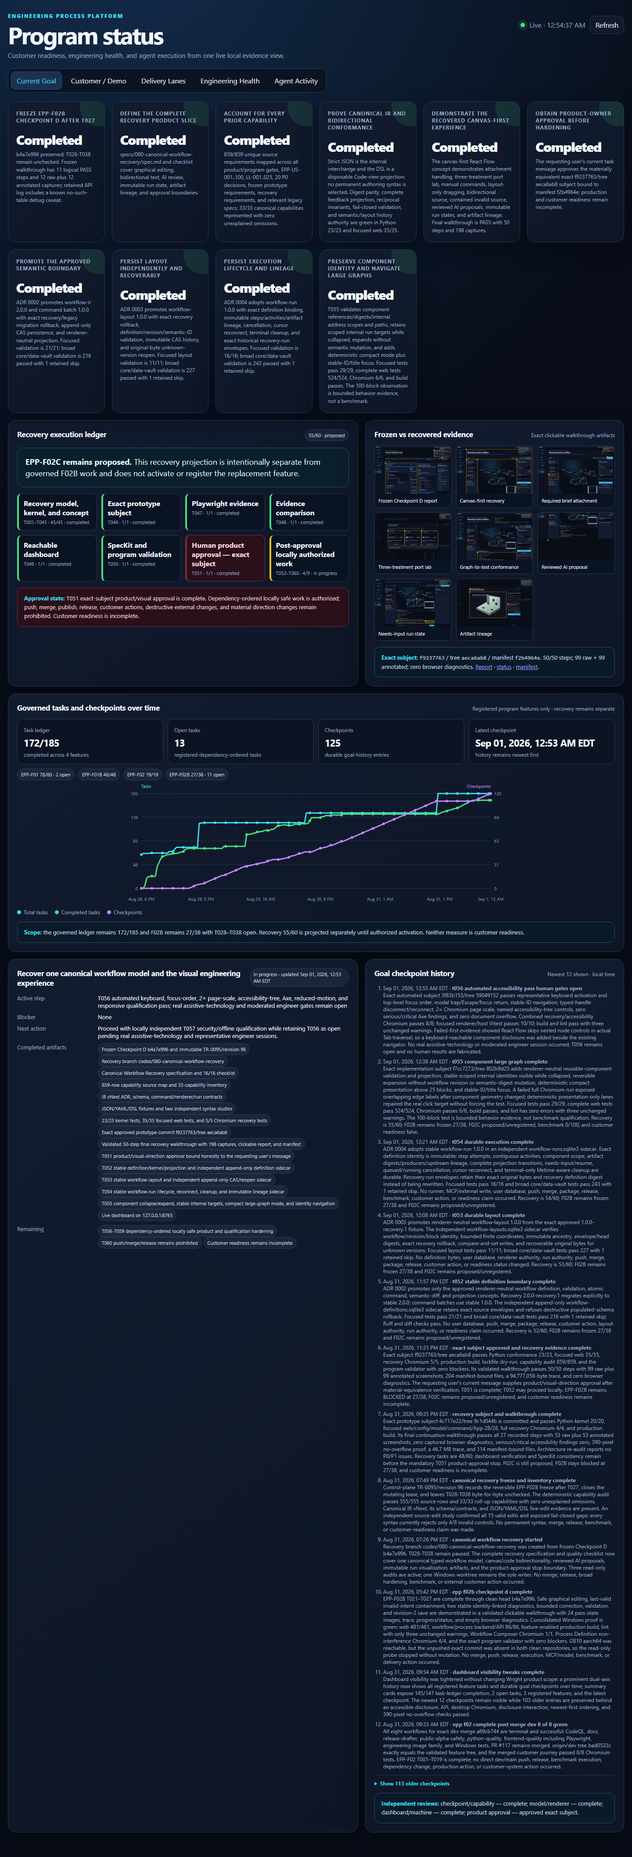
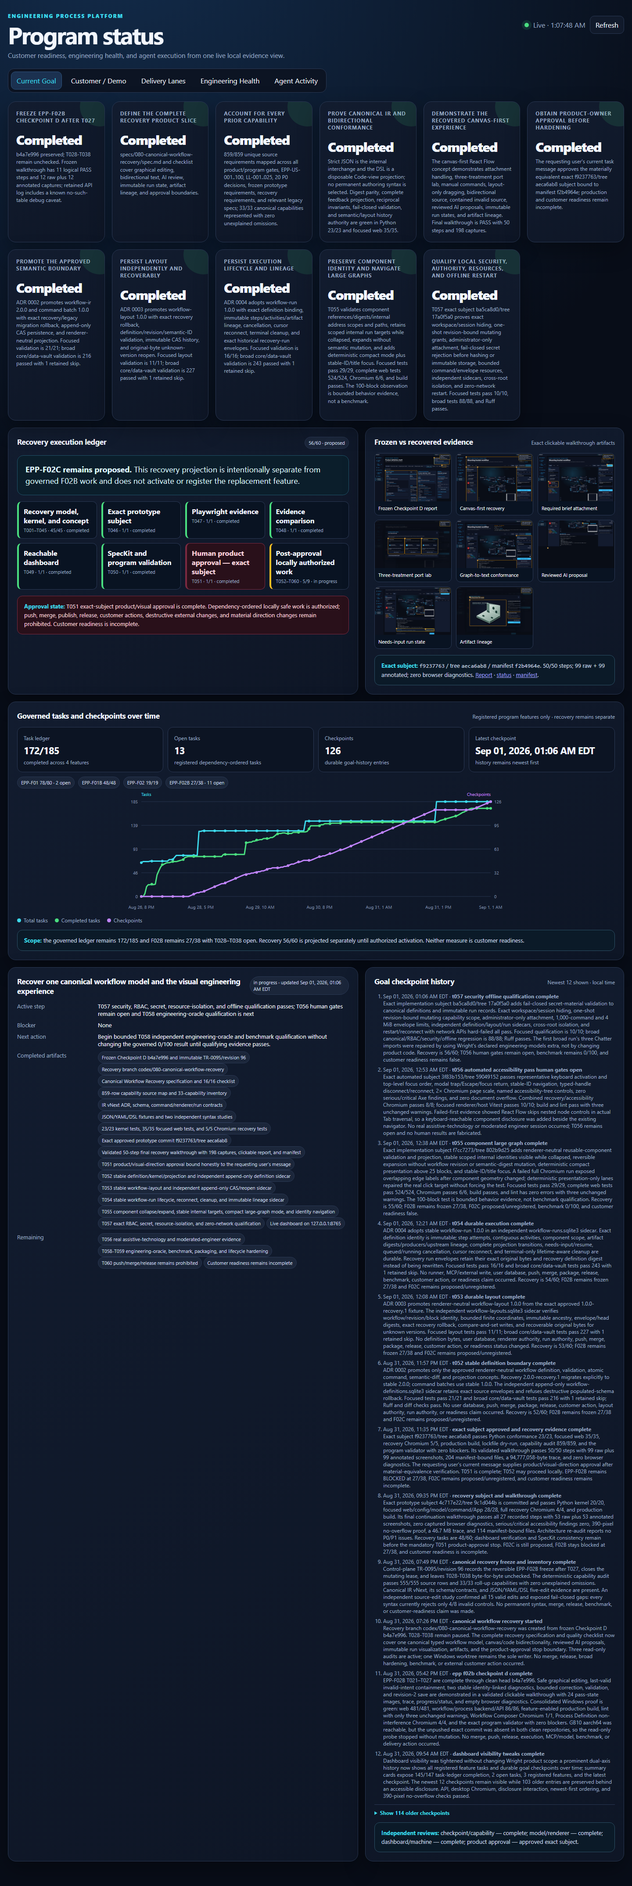
docs(workflows): record T057 qualification evidence

diff --git a/specs/080-canonical-workflow-recovery/plan.md b/specs/080-canonical-workflow-recovery/plan.md
@@ -6,7 +6,7 @@
 
 ## Summary
 
-Recover Wright around one versioned canonical workflow IR that is authoritative for diagram, text, forms, and reviewed AI proposals while keeping layout and immutable run records separate. Preserve the model/validation/revision/CAS/API/browser/renderer seams completed at Checkpoint D, freeze its current custom shell as technical evidence, and build a disposable but high-fidelity React Flow recovery concept over the existing renderer adapter. The slice includes measured JSON/YAML/DSL evidence, a tested parse/format/validate/apply/diff/project conformance kernel, a three-treatment block/port laboratory, a complete mechanical-engineering walkthrough, and revised dependency-ordered program artifacts. T051 is approved for exact subject `f9237763`; T052–T055 now promote stable definition, layout, execution, reusable-component identity, collapsed-graph interaction, and bounded large-graph navigation while preserving renderer-neutral authority. Dependency-ordered locally safe implementation may continue, while push, merge, publication, release, customer action, and material product-direction changes remain prohibited.
+Recover Wright around one versioned canonical workflow IR that is authoritative for diagram, text, forms, and reviewed AI proposals while keeping layout and immutable run records separate. Preserve the model/validation/revision/CAS/API/browser/renderer seams completed at Checkpoint D, freeze its current custom shell as technical evidence, and build a disposable but high-fidelity React Flow recovery concept over the existing renderer adapter. The slice includes measured JSON/YAML/DSL evidence, a tested parse/format/validate/apply/diff/project conformance kernel, a three-treatment block/port laboratory, a complete mechanical-engineering walkthrough, and revised dependency-ordered program artifacts. T051 is approved for exact subject `f9237763`; T052–T055 promote stable definition, layout, execution, reusable-component identity, collapsed-graph interaction, and bounded large-graph navigation. T057 now qualifies the canonical boundaries for exact RBAC scope, fail-closed secret handling, resource isolation, and offline restart. T056's real assistive-technology and moderated-engineer gates remain open. Dependency-ordered locally safe implementation may continue, while push, merge, publication, release, customer action, and material product-direction changes remain prohibited.
 
 ## Technical Context
 
@@ -16,7 +16,7 @@ Recover Wright around one versioned canonical workflow IR that is authoritative 
 
 **Storage**: Preserve existing draft and legacy run storage. T052 adds independent stable definition storage, T053 adds independent stable layout storage, and T054 adds an independent normalized execution sidecar for canonical runs, immutable steps/activities/artifact lineage, reconnect, cancellation, cleanup, and exact historical recovery envelopes.
 
-**Testing**: pytest for syntax evidence and retained Python invariants; Vitest for conformance, commands, projection, renderer, and component behavior; Playwright for human-repeatable direct manipulation, text correspondence, AI review, run visualization, screenshots, trace, and diagnostics
+**Testing**: pytest for syntax evidence, retained Python invariants, canonical security/RBAC/resource boundaries, and zero-network restart; Vitest for conformance, commands, projection, renderer, and component behavior; Playwright for human-repeatable direct manipulation, text correspondence, AI review, run visualization, screenshots, trace, diagnostics, and automated accessibility
 
 **Target Platform**: Wright web UI on Windows 11 for authoritative interaction evidence; current supported desktop browsers; optional GB10 Linux/aarch64 for bounded read-only and parallel verification
 
@@ -33,10 +33,10 @@ Recover Wright around one versioned canonical workflow IR that is authoritative 
 *GATE: Passed before research and rechecked after contracts.*
 
 - **Modular monorepo and thin routes — PASS**: no new route business logic is required for the recovery concept; retained API/service boundaries remain unchanged. Any future persistence expansion belongs in core/data-vault/workspace-service before transport.
-- **Offline-first — PASS**: fixtures, parsing, validation, graph editing, proposal review, and simulated run evidence operate locally without cloud or external MCP dependencies.
+- **Offline-first — PASS**: fixtures, parsing, validation, graph editing, proposal review, and simulated run evidence operate locally without cloud or external MCP dependencies. T057 additionally hard-fails network resolution/connection while promoting and reopening stable definition, layout, run, step, activity, and artifact records.
 - **Distribution and rollback — PASS**: no released artifact, installer, or main database version changes. The new definition sidecar is independent, its empty schema rolls back transactionally, populated history refuses destructive rollback, and exact promotion-source envelopes are retained for verified rollback.
 - **Embedded state — PASS**: retained stores remain untouched. Stable definitions, layouts, and canonical execution records now have separate SQLite authorities. The recovery UI's simulated runner remains disposable presentation evidence and gains no external execution authority.
-- **Security, RBAC, and authority — PASS**: no new external write or runtime authority. AI proposals cannot mutate, run, or approve. Artifact actions remain local concept fixtures and are labeled.
+- **Security, RBAC, and authority — PASS**: no new external write or runtime authority. T057 proves exact workspace/session lookup, exact one-shot mutating capability grants, administrator-only attachment authority, fail-closed secret rejection before canonical hashing/immutable persistence, and bounded command/envelope resources. AI proposals cannot mutate, run, or approve. Artifact actions remain local concept fixtures and are labeled.
 - **Engineering tooling protocol — PASS**: exact tool/MCP bindings are modeled and inspectable, but no GUI-only agent execution or tool invocation occurs.
 - **UI atomic design — PASS**: the recovery stylesheet has zero raw color
   literals, 184 references to shared Wright tokens, and no malformed token
@@ -49,8 +49,9 @@ Recover Wright around one versioned canonical workflow IR that is authoritative 
   renderer-component tests cover default interaction, run overlays, and
   unknown-version rejection; the page-level mocked Playwright journey covers
   the complete product path. Retained backend contract tests remain available.
-  Production system E2E is deferred because this slice uses a simulated run and
-  commits no production executor.
+  T057 adds a local system E2E for stable definition/layout/run persistence and
+  restart with network APIs hard-failed. A live production executor remains
+  deferred because this slice commits no external execution authority.
 - **Stable test identities — PASS**: every authored interactive concept control
   and every explicit renderer navigation control has a stable `data-testid`;
   the host-component regression enumerates rendered interactive elements and
@@ -261,6 +262,7 @@ artifacts/ui-walkthrough/workflow-recovery/<timestamp>/
   one-second recovery bound.
 - **Walkthrough**: progress/status/report remain current after every action; raw and annotated images are separate; browser diagnostics are captured; validator has zero missing evidence fields.
 - **Program**: dashboard names the recovery goal as in progress while EPP-F02C remains proposed and unregistered, keeps the governed F02B ledger separate from a recovery task projection, orders checkpoint history newest-first, and leaves customer readiness incomplete.
+- **Security/offline**: exact capability and workspace/session scopes fail closed; secret-shaped keys, bearer/assignment material, and credential-bearing URLs cannot enter canonical or immutable records; oversized batches/envelopes fail before write; definition/layout/run sidecars remain isolated and reopen with zero network calls.
 
 ## Resource Strategy
 

diff --git a/specs/080-canonical-workflow-recovery/capability-inventory.md b/specs/080-canonical-workflow-recovery/capability-inventory.md
@@ -33,11 +33,11 @@ This register distinguishes durable product capabilities from any particular ren
 | CAP-021 | Truthful modes and provenance | Tell fixture demonstration from live engineering work | Mode and evidence provenance on run; never inferred | N/A | Persistent DEMO/SIMULATED label in concept | Mode cannot be toggled after run starts | Source and limitation | Current-run evidence alone drives findings | Cross-input false-result and mode-label tests | Simulation banner visible in every run capture | **Retain** — concept is explicitly simulated. |
 | CAP-022 | Approval and authority boundaries | Approve an exact design or return it for revision | Gate declaration separate from immutable approval record | Gate/decision semantics only | Approval node/branch; no fake approval button in authoring | Explicit exact-subject action outside AI | Actor, revision, allowed next action | Approval state is run/control evidence | Stale-subject, reject/revise, revocation tests | Review block and feedback edge | **Retain** — no execution, publication, or external customer action here. |
 | CAP-023 | UI/headless/CLI/host equivalence | Run the same definition without the canvas | Shared IR, command, validation, and run contracts | Same parse/format service | Canvas is one adapter | Commands are transport-neutral | Same semantic/run IDs | One interpreter produces all states | Declared equivalence and adapter contract tests | Not visually primary | **Defer production proof** — retain contract boundary now. |
-| CAP-024 | Security, privacy, and tool isolation | Review where proprietary bracket data can travel | Policy references and exact identities; no embedded secret | No credential literals | Authority/egress disclosed before run | Unsafe action cannot be inferred from a gesture | Redaction, egress, limits, approval | Typed denial, isolation evidence | Threat, secret, traversal, isolation, resource tests | Binding/authority disclosure | **Retain; defer full qualification**. |
+| CAP-024 | Security, privacy, and tool isolation | Review where proprietary bracket data can travel | Policy references and exact identities; no embedded secret | No credential literals | Authority/egress disclosed before run | Unsafe action cannot be inferred from a gesture | Redaction, egress, limits, approval | Typed denial, isolation evidence | T057 exact RBAC, secret, resource, cross-root, and offline tests | Binding/authority disclosure | **Qualified for the canonical local slice** — exact workspace/session and one-shot grant scope pass; external runtime/release authority remains absent. |
 | CAP-025 | Engineer usability and accessibility | Complete the workflow with keyboard or at 200% zoom | No semantic dependency | Text remains complete fallback | Focus-visible controls, labels, responsive inspector | Keyboard equivalents for gestures and component disclosure | Reachable without horizontal document overflow | Status not color-only; reduced motion | Axe, keyboard, focus-order, 2× scale, narrow, reduced-motion tests; real AT/moderated study open | Automated T056 Chromium evidence | **Automated portion passes; human gate open** — no real screen-reader or moderated participant evidence is inferred. |
 | CAP-026 | Large-graph behavior | Navigate a realistic process without losing context | Stable IDs and projections scale independently | Formatter remains deterministic | Detailed through 25 blocks; deterministic compact mode, fit, minimap, and identity search above 25 | Keyboard/selection remain bounded | Search/select by stable identity or title | Overlay does not re-layout graph | 25/100 renderer stress plus later representative performance qualification | T055 automated 100-block renderer evidence | **Revise, bounded proof only** — navigation behavior is implemented; production performance and representative scale claims remain deferred. |
 | CAP-027 | Generic architecture | Apply the same workflow system to other engineering domains | No domain/vendor/case dispatch in kernel | Grammar contains generic types/IDs | Renderer is type-driven | Commands are semantic, not case-named | Binding is metadata | Runtime adapters are replaceable | Static/dependency and perturbation review | Bracket is example, not dispatch | **Retain** — the 100 stories map through generic constructs. |
-| CAP-028 | Persistence, migration, offline, rollback | Reopen an exact draft after restart or update | Version/migration rules; CAS immutable revisions | Unknown versions fail safely | Honest unavailable/recovery state | Save uses compare-and-swap | Migration/recovery detail | Runs keep exact historical subject | Restart/offline/update/rollback/uninstall tests | Not in recovery concept | **Defer hardening** — sound CAS foundation retained. |
+| CAP-028 | Persistence, migration, offline, rollback | Reopen an exact draft after restart or update | Version/migration rules; CAS immutable revisions | Unknown versions fail safely | Honest unavailable/recovery state | Save uses compare-and-swap | Migration/recovery detail | Runs keep exact historical subject | T052–T054 migration/rollback plus T057 zero-network restart and sidecar isolation | Not in recovery concept | **Local canonical persistence qualified** — packaging/native/update/uninstall hardening remains T059. |
 | CAP-029 | Customer outcome catalog | Model any of the 100 engineering processes without special code | Generic block/port/artifact/relationship composition | Same language constructs | Friendly domain labels over same primitives | Compose from capabilities | Domain facts stay configuration/artifacts | Same run/evidence model | One source-map row for EPP-US-001…100; later scenario tests | Bracket journey is one coherent proof | **Retain** — no story disappears; breadth is not claimed complete. |
 | CAP-030 | Independent engineering oracles | Prove an output is mechanically correct, not merely present | Oracle references are qualification metadata, not workflow truth | N/A | Result can link to independent evidence | No UI assertion creates correctness | Units/tolerances/assertion version | Run transport success remains distinct | Independent oracle/holdout/metamorphic qualification | Not claimed by concept | **Defer** — benchmark stays 0/100 and independently gated. |
 | CAP-031 | Program, dashboard, packaging, release | See honest slice progress without implying readiness | External control-plane records | N/A | Dashboard separates slice from product readiness | N/A | Evidence links and blockers | N/A | Validator and release-gate suites | Live dashboard history/graphs | **Defer release; retain control truth** — no merge/publish/release. |
@@ -50,4 +50,4 @@ This register distinguishes durable product capabilities from any particular ren
 - `EPP-US-001` through `EPP-US-100` are retained as outcome coverage, not implemented as case-specific branches.
 - Benchmark, commercial, program, packaging, scale, and broad lifecycle capabilities remain visible but deferred; “defer” never means passed or removed.
 - No legacy Rivet implementation is retained as an orchestration dependency. Its durable requirements map to provider-neutral capabilities; Rivet-specific implementation and authority are rejected.
-- Visual evidence cells are now indexed by the digest-bound passing walkthrough and [frozen-versus-recovery comparison](evidence/prototype-side-by-side.md). Automated evidence is complete; human product/visual approval remains open and is not inferred from a green walkthrough.
+- Visual evidence cells are indexed by the digest-bound passing walkthrough and [frozen-versus-recovery comparison](evidence/prototype-side-by-side.md). Human product/visual approval is recorded for that exact subject. T056's real assistive-technology and moderated-engineer evidence remains open and is not inferred from automation.

diff --git a/specs/080-canonical-workflow-recovery/evidence/security-offline-qualification.md b/specs/080-canonical-workflow-recovery/evidence/security-offline-qualification.md
@@ -1,0 +1,66 @@
+# T057 security and offline qualification
+
+**Date**: 2026-09-01
+
+**Exact implementation subject**: commit `ba5ca8d03dcaf42fad832fbd2ed3f69b8a990f5b` / tree `17a0f5a0537f5ab6b713736e5e1996011a33e68d`
+
+**Task status**: **PASS**. This qualification covers the locally owned canonical workflow definition, layout, command, run, capability-grant, workspace/session, resource, and offline boundaries. It does not grant external runtime authority, release authority, or customer readiness.
+
+## Qualified controls
+
+| Control | Evidence | Result |
+|---|---|---|
+| RBAC and exact authority | A mutating workflow grant is exact to source/version, workflow identity, base revision, workspace, user, instance, and operation; it is consumed after one use. Administrator-only target attachment is denied to an engineer. | Pass |
+| Runtime isolation | Existing workflow operations return a run only for its exact workspace and session and hide cross-workspace or cross-session lookup as not found. | Pass |
+| Definition secret boundary | Canonical validation rejects secret-shaped keys and recognizable bearer/assignment or credential-bearing URL material before semantic hashing or persistence. Recovery promotion applies the same check to its exact source envelope. | Pass |
+| Immutable evidence secret boundary | Canonical run, step, activity, artifact, and opaque recovery-run envelopes reject secret material before immutable storage. Public recovery decoding keeps a generic safe error while retaining the precise rejection as its internal cause. | Pass |
+| Resource bounds | A command batch above 1,000 commands fails Pydantic validation. A definition envelope above 4 MiB is rejected before the definition sidecar is created. Existing model and SQLite bounds cover layouts, runs, activities, steps, and artifacts. | Pass |
+| Store isolation | Definition, layout, and run records remain in three independent SQLite sidecars; no primary database is created by these repositories. Separate workspace roots cannot read one another's run IDs. | Pass |
+| Offline restart | Definition promotion, layout promotion, run/step/activity/artifact persistence, state transitions, repository reconstruction, and reconnect complete while `socket.create_connection` and `socket.getaddrinfo` are hard-failed. | Pass; zero network calls |
+
+## Test evidence
+
+```text
+Focused T057 security + offline qualification: 10 passed
+Broad canonical/RBAC/security/offline regression: 88 passed
+Ruff on changed source and qualification tests: passed
+```
+
+The broad command used Wright's declared `engineering-models` extra because the
+complete `tests/security/` directory includes three NumPy-backed Chatter
+contract tests. The first run without that optional extra reported 74 passes
+and three import failures (`ModuleNotFoundError: numpy`). Rerunning with the
+declared extra installed one package and passed all selected tests; this was an
+environment dependency correction, not a product-code repair.
+
+## Failed-first evidence
+
+The initial focused run reported four failures. Three exposed real missing
+fail-closed checks: secret-shaped definition configuration, secret material in
+the recovery promotion source, and secret-bearing immutable activity/artifact
+text. The production repair extends the existing shared secret-material guard
+and invokes it at canonical definition and run-record validation boundaries.
+
+The fourth failure was a test assumption that a SQLite directory would contain
+only the three database filenames. WAL mode truthfully creates `-wal` and
+`-shm` companions; the corrected assertion permits only those companions and
+still rejects any unrelated or cross-workspace store.
+
+## Boundary statement
+
+The data-vault repositories remain storage primitives and do not invent a
+second authorization model. Human/administrator authority continues through
+Wright's existing workspace/session and exact capability-grant layers. The
+canonical models fail closed before immutable bytes are accepted. AI proposal
+content still has no direct mutation, run, approval, or external-write path.
+
+T056 remains open for a real screen-reader session and moderated representative
+engineer sessions. T058 remains at `0/100` until independent engineering-oracle
+evidence passes. No push, merge, publication, release, or external action was
+performed.
+
+The refreshed dashboard verifier passed at `2026-09-01T05:07:52.020Z`: recovery
+is 56/60 with T056 still visibly open, the exact approved UI subject and manifest
+remain bound, all eight gallery images load, desktop/mobile overflow is zero,
+browser diagnostics are empty, evidence requests return 200, both traversal
+probes return 403, benchmark remains 0/100, and customer readiness remains false.

diff --git a/specs/080-canonical-workflow-recovery/evidence/specification-analysis.md b/specs/080-canonical-workflow-recovery/evidence/specification-analysis.md
@@ -10,13 +10,14 @@
 - Analysis date: 2026-09-01 EDT
 
 The `speckit-analyze` skill was used as a strictly read-only consistency pass.
-Its required command was attempted exactly once:
+Its required command was attempted for the original analysis and again for this
+T057 refresh:
 
 ```text
 bash .specify/scripts/bash/check-prerequisites.sh --json --require-tasks --include-tasks
 ```
 
-The Windows host returned
+Both attempts returned `Access is denied` with
 `Bash/Service/CreateInstance/E_ACCESSDENIED`. No WSL mutation or workaround was
 attempted. Because all four required artifacts were present, the same inventory,
 coverage, ordering, ambiguity, duplication, and constitution checks were then
@@ -35,17 +36,20 @@ No unresolved duplicate requirements, placeholders, core terminology conflicts,
 task-order contradictions, or constitution `MUST` violations remain in the
 recovery slice. The current message supplies the human phase and product-direction
 approval; work remains on a feature branch; the concept stays local/offline;
-component, integration, and walkthrough tests satisfy the applicable test-pyramid
-layers; and no push, merge, publication, or release occurred.
+component, integration, walkthrough, security, and zero-network restart tests
+satisfy the applicable test-pyramid layers; and no push, merge, publication, or
+release occurred. T056 is intentionally still open because its real
+assistive-technology and moderated-engineer evidence cannot be produced by an
+automated local run.
 
 ## Coverage summary
 
 | Requirement set | Count | Has task coverage | Notes |
 |---|---:|---:|---|
-| Functional requirements | 42 | 42 | T001–T055 cover the recovery and first production-promotion sequence; T056–T060 retain qualification/release obligations. |
+| Functional requirements | 42 | 42 | T001–T055 cover recovery and first production promotion; T057 covers security/offline qualification; T056 and T058–T060 retain human, oracle, packaging, and release obligations. |
 | Buildable success criteria | 14 | 14 | T046–T050 bind final validation/evidence; T051 binds the human decision. |
 | User stories | 5 | 5 | Each story has independent test language and dependency-ordered tasks. |
-| Tasks | 60 | n/a | T001–T055 complete after this checkpoint; T056–T060 remain open. |
+| Tasks | 60 | n/a | 56 complete: T001–T055 and T057. Four remain open: T056 and T058–T060. |
 
 Metrics: 56/56 explicit FR/SC requirements covered (100%); ambiguity findings
 0 unresolved; duplication findings 0; critical findings 0; constitution issues
@@ -63,11 +67,19 @@ Metrics: 56/56 explicit FR/SC requirements covered (100%); ambiguity findings
   those immutable digest facts; TR-0095 itself was not edited.
 - The Spec Kit agent-context updater completed and `AGENTS.md` points to
   `specs/080-canonical-workflow-recovery/plan.md`.
+- T057 exact implementation commit `ba5ca8d03dcaf42fad832fbd2ed3f69b8a990f5b`
+  (tree `17a0f5a0537f5ab6b713736e5e1996011a33e68d`) passes 10 focused
+  and 88 broad security/RBAC/resource/offline tests with Ruff clean.
+- Capability coverage remains 859/859 source requirements and 33/33 roll-up
+  capabilities with zero unexplained omissions.
 
 ## Conclusion
 
-The recovery evidence slice and T052–T055 production-promotion checkpoints are
-internally consistent. The next dependency-ordered local work is T056 automated
-accessibility qualification and its separately honest moderated-usability
-boundary. T060 remains prohibited because the current authorization explicitly
-excludes push, merge, publication, and release.
+The recovery evidence slice, T052–T055 production-promotion checkpoints, and
+T057 security/offline qualification are internally consistent. T056's automated
+portion passes while its human-only evidence remains open. The next independently
+local task is T058 engineering-oracle and benchmark qualification, which must
+retain the truthful `0/100` score until qualifying evidence passes. T059 may
+perform only local packaging/lifecycle hardening. T060 remains prohibited
+because the current authorization explicitly excludes push, merge, publication,
+and release.

diff --git a/specs/080-canonical-workflow-recovery/prototype-parity.md b/specs/080-canonical-workflow-recovery/prototype-parity.md
@@ -27,6 +27,8 @@
 | Mobile containment | not target | unproven | 390×844 no document overflow | passing annotated walkthrough captured; representative usability open |
 | Reusable component collapse | unproven | model-only | stable internal scopes, collapsed target summary, and expansion | T055 renderer and Chromium tests pass without semantic/revision mutation |
 | 100-node behavior | unproven | one non-qualifying run | deterministic compact mode, fit/minimap, stable identity search and selection | T055 automated behavior passes; representative production performance remains open |
+| Security and RBAC | retained workspace/session and capability policies | not qualified | exact workspace/session hiding, one-shot mutating scope, administrator-only attachment, secret rejection | T057 canonical local slice passes; no external runtime or release authority added |
+| Offline and store isolation | retained local-first foundation | not qualified | independent definition/layout/run sidecars and restart/reconnect with network hard-failed | T057 passes; packaging/native/update/uninstall lifecycle remains T059 |
 
 ## What is deliberately not copied
 
@@ -38,4 +40,4 @@
 
 ## Current conclusion
 
-The recovery concept reaches functional parity with the useful visual direction and surpasses the frozen prototype on direct manipulation, paired editing, proposal review, invalid containment, bounded run recovery, reusable-component inspection, and stable-identity navigation. The [digest-bound comparison](evidence/prototype-side-by-side.md), passing walkthrough, and [approval record](evidence/product-approval.md) close T051 for the exact materially equivalent subject. T052–T055 add separate stable definition/layout/execution boundaries and bounded component/large-graph behavior. Representative usability, broad accessibility qualification, and qualifying production performance remain downstream obligations.
+The recovery concept reaches functional parity with the useful visual direction and surpasses the frozen prototype on direct manipulation, paired editing, proposal review, invalid containment, bounded run recovery, reusable-component inspection, and stable-identity navigation. The [digest-bound comparison](evidence/prototype-side-by-side.md), passing walkthrough, and [approval record](evidence/product-approval.md) close T051 for the exact materially equivalent subject. T052–T055 add separate stable definition/layout/execution boundaries and bounded component/large-graph behavior; T057 qualifies their local security, RBAC, resource, isolation, and offline contracts. Representative usability, real assistive-technology evidence, qualifying engineering oracles, and packaging/native lifecycle hardening remain downstream obligations.

diff --git a/specs/080-canonical-workflow-recovery/quickstart.md b/specs/080-canonical-workflow-recovery/quickstart.md
@@ -108,8 +108,8 @@ Open `http://127.0.0.1:8765/`. The server is launched against this recovery
 worktree and presents two deliberately separate ledgers:
 
 - governed EPP-F02B remains `BLOCKED`, 27/38, with T028–T038 open;
-- projected EPP-F02C recovery is `proposed`, unregistered, 55/60 through the
-  verified T055 component/large-graph checkpoint, with T056–T060 open.
+- projected EPP-F02C recovery is `proposed`, unregistered, 56/60 through the
+  verified T057 security/offline checkpoint; T056 and T058–T060 remain open.
 
 The live recovery gallery serves only the exact frozen and passing recovery
 walkthrough roots. Report, status, manifest, frozen screenshot, and all seven
@@ -222,3 +222,37 @@ T056 remains open: an accessibility-tree snapshot is not a real screen-reader
 session, and the representative-engineer study in
 `evidence/moderated-engineer-usability-protocol.md` has not been run. Do not
 mark either gate complete from automation or protocol preparation.
+
+## Verify T057 security and offline qualification
+
+```powershell
+uv run pytest -q `
+  tests/security/test_canonical_workflow_security.py `
+  tests/e2e/test_canonical_workflow_offline.py
+
+uv run --extra engineering-models pytest -q `
+  packages/core/tests/test_workflow_definitions.py `
+  packages/core/tests/test_canonical_workflow_runs.py `
+  packages/data_vault/tests/test_workflow_definition_repository.py `
+  packages/data_vault/tests/test_workflow_layout_repository.py `
+  packages/data_vault/tests/test_canonical_workflow_run_repository.py `
+  packages/workspace_service/tests/test_workflow_operations.py `
+  packages/workspace_service/tests/surfaces/test_capability_grants.py `
+  tests/security `
+  tests/e2e/test_engineering_program_offline.py `
+  tests/e2e/test_canonical_workflow_offline.py
+
+uv run ruff check `
+  packages/core/src/core/rivet_mcp.py `
+  packages/core/src/core/workflow_definitions.py `
+  packages/core/src/core/canonical_workflow_runs.py `
+  tests/security/test_canonical_workflow_security.py `
+  tests/e2e/test_canonical_workflow_offline.py
+```
+
+Expected: 10 focused tests pass, 88 broad regression tests pass, and Ruff
+passes. The tests prove exact workspace/session and one-shot capability scope,
+administrator-only authority, fail-closed secret handling before hashing or
+immutable storage, command/envelope resource limits, independent sidecars,
+cross-root isolation, and restart/reconnect with zero network calls. See
+`evidence/security-offline-qualification.md`.

diff --git a/specs/080-canonical-workflow-recovery/evidence/prototype-side-by-side.md b/specs/080-canonical-workflow-recovery/evidence/prototype-side-by-side.md
@@ -31,6 +31,7 @@ execution, merge, release, or customer authority.
 | Can AI mutate or execute? | AI is excluded. | Full dashed multi-block candidate, assumptions, warnings, diff, read-only inspection, explicit Reject/Accept. | Host authority remains explicit; automation is simulated. |
 | Can a run explain failure and recovery? | Run state is excluded. | Immutable simulated overlay reaches needs-input, blocks dependents, accepts one bounded 6061-T6 input, then succeeds. | Product grammar is reviewable; production runtime remains future. |
 | Are outputs recognizable and truthful? | No output experience. | Bracket preview, report, STEP download, producer/revision/digest/lineage, static-fixture disclosure. | Result-first treatment is ready for human review, not a correctness claim. |
+| Do promoted records preserve local authority boundaries? | Existing workspace/session and capability policies. | Stable definition/layout/run sidecars now reject secret material, enforce bounded inputs, and reopen with network APIs hard-failed. | T057 qualifies the local canonical slice without changing the approved visual subject or granting external authority. |
 
 ## Recovery gallery
 
@@ -61,6 +62,8 @@ rewritten and led to real product or proof-harness corrections.
 Automated behavior and visual evidence are green. The [approval record](product-approval.md)
 binds the requesting user's product/visual-direction approval to the exact
 commit, tree, and walkthrough manifest after material-equivalence verification.
-Representative mechanical-engineer usability, broad accessibility qualification,
-production persistence/runtime integration, and qualifying scale remain open;
-the approval is not a customer-readiness claim.
+Stable definition/layout/run persistence and T057 local security/offline
+qualification now pass independently of this visual subject. Representative
+mechanical-engineer usability, real assistive-technology evidence, external
+runtime integration, engineering-oracle qualification, and packaging/native
+lifecycle hardening remain open; the approval is not a customer-readiness claim.

diff --git a/specs/080-canonical-workflow-recovery/tasks.md b/specs/080-canonical-workflow-recovery/tasks.md
@@ -178,7 +178,7 @@
 - [x] T054 [P] Implement durable run/step/activity/artifact records, cancellation, reconnect, and cleanup in `packages/core/src/core/`, `packages/data_vault/src/data_vault/`, and `tests/`
 - [x] T055 Implement approved component/collapsed-graph and large-graph behavior in `apps/web/src/components/workflow-composer/` and `tests/ui-integration/`
 - [ ] T056 Complete representative keyboard-only, 200% zoom, focus-order, screen-reader, and moderated engineer-usability gates in `tests/ui-integration/` and `specs/080-canonical-workflow-recovery/evidence/`
-- [ ] T057 Complete security, RBAC, secret-redaction, resource-isolation, and offline qualification in `tests/security/` and `tests/e2e/`
+- [x] T057 Complete security, RBAC, secret-redaction, resource-isolation, and offline qualification in `tests/security/` and `tests/e2e/`
 - [ ] T058 Complete independent engineering-oracle and benchmark qualification without changing the current `0/100` result until evidence passes in `benchmarks/` and `test-results/dataset-evaluation/`
 - [ ] T059 Run packaging, rollback, native lifecycle, Docker, and release-candidate hardening through the authoritative scripts in `scripts/` and `docs/release/release-runbook.md`
 - [ ] T060 Run dev-push/merge/release gates only under separate authorization; do not push, merge, publish, or release from this recovery checkpoint in `docs/contributing/dev-push-runbook.md` and `docs/release/release-runbook.md`

diff --git a/specs/080-canonical-workflow-recovery/evidence/accessibility-qualification.md b/specs/080-canonical-workflow-recovery/evidence/accessibility-qualification.md
@@ -33,7 +33,9 @@ The automated accessibility-tree snapshot is not an NVDA, JAWS, Narrator, or Voi
 
 No representative mechanical engineers were recruited or observed. Therefore task T056 and CAP-025's moderated usability gate remain open. The ready-to-run protocol is [moderated-engineer-usability-protocol.md](moderated-engineer-usability-protocol.md). Closing this gate requires real participants, contemporaneous notes, exact subject identity, consent/privacy handling, and honest results—including failures—not an agent-authored simulation.
 
-This external dependency does not authorize skipping the gate and does not prevent locally independent T057 security qualification from proceeding.
+This external dependency does not authorize skipping the gate. The locally
+independent T057 security/offline qualification subsequently completed without
+claiming that these human T056 gates passed.
 
 The refreshed dashboard verifier passed at `2026-09-01T04:54:40.544Z` while
 keeping the ledger at 55/60, T056 visibly open on its human gates, eight
